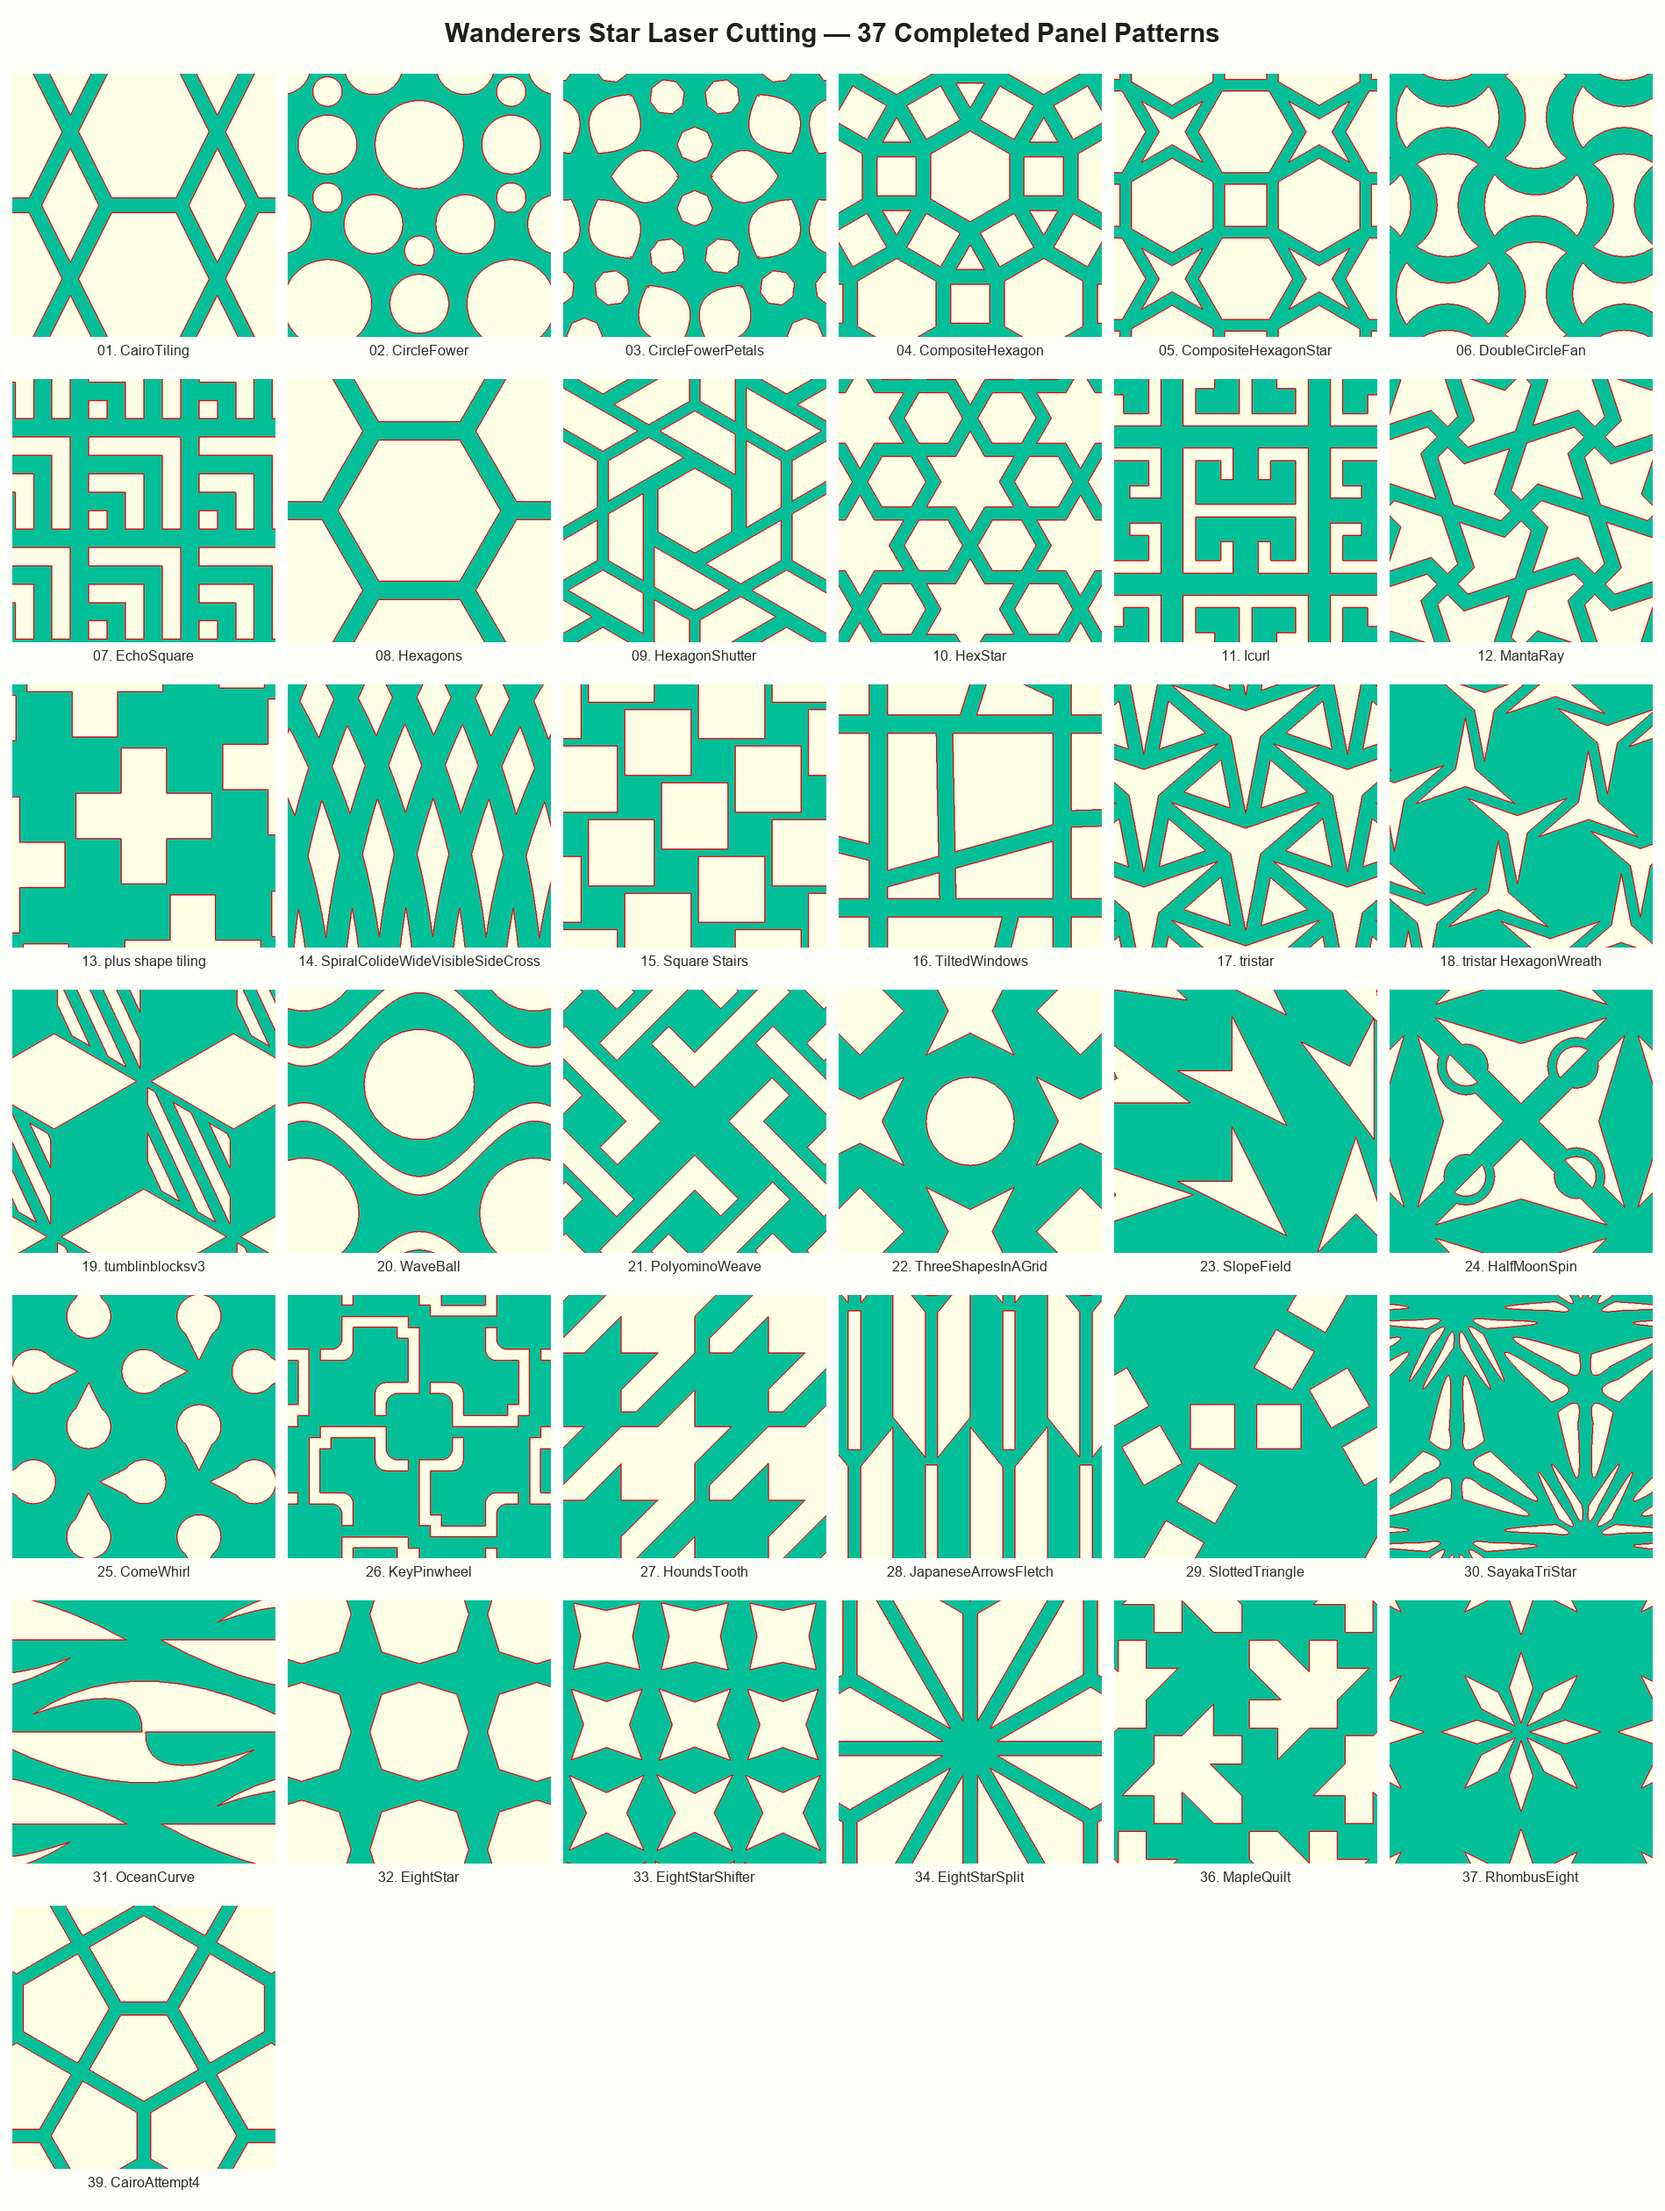
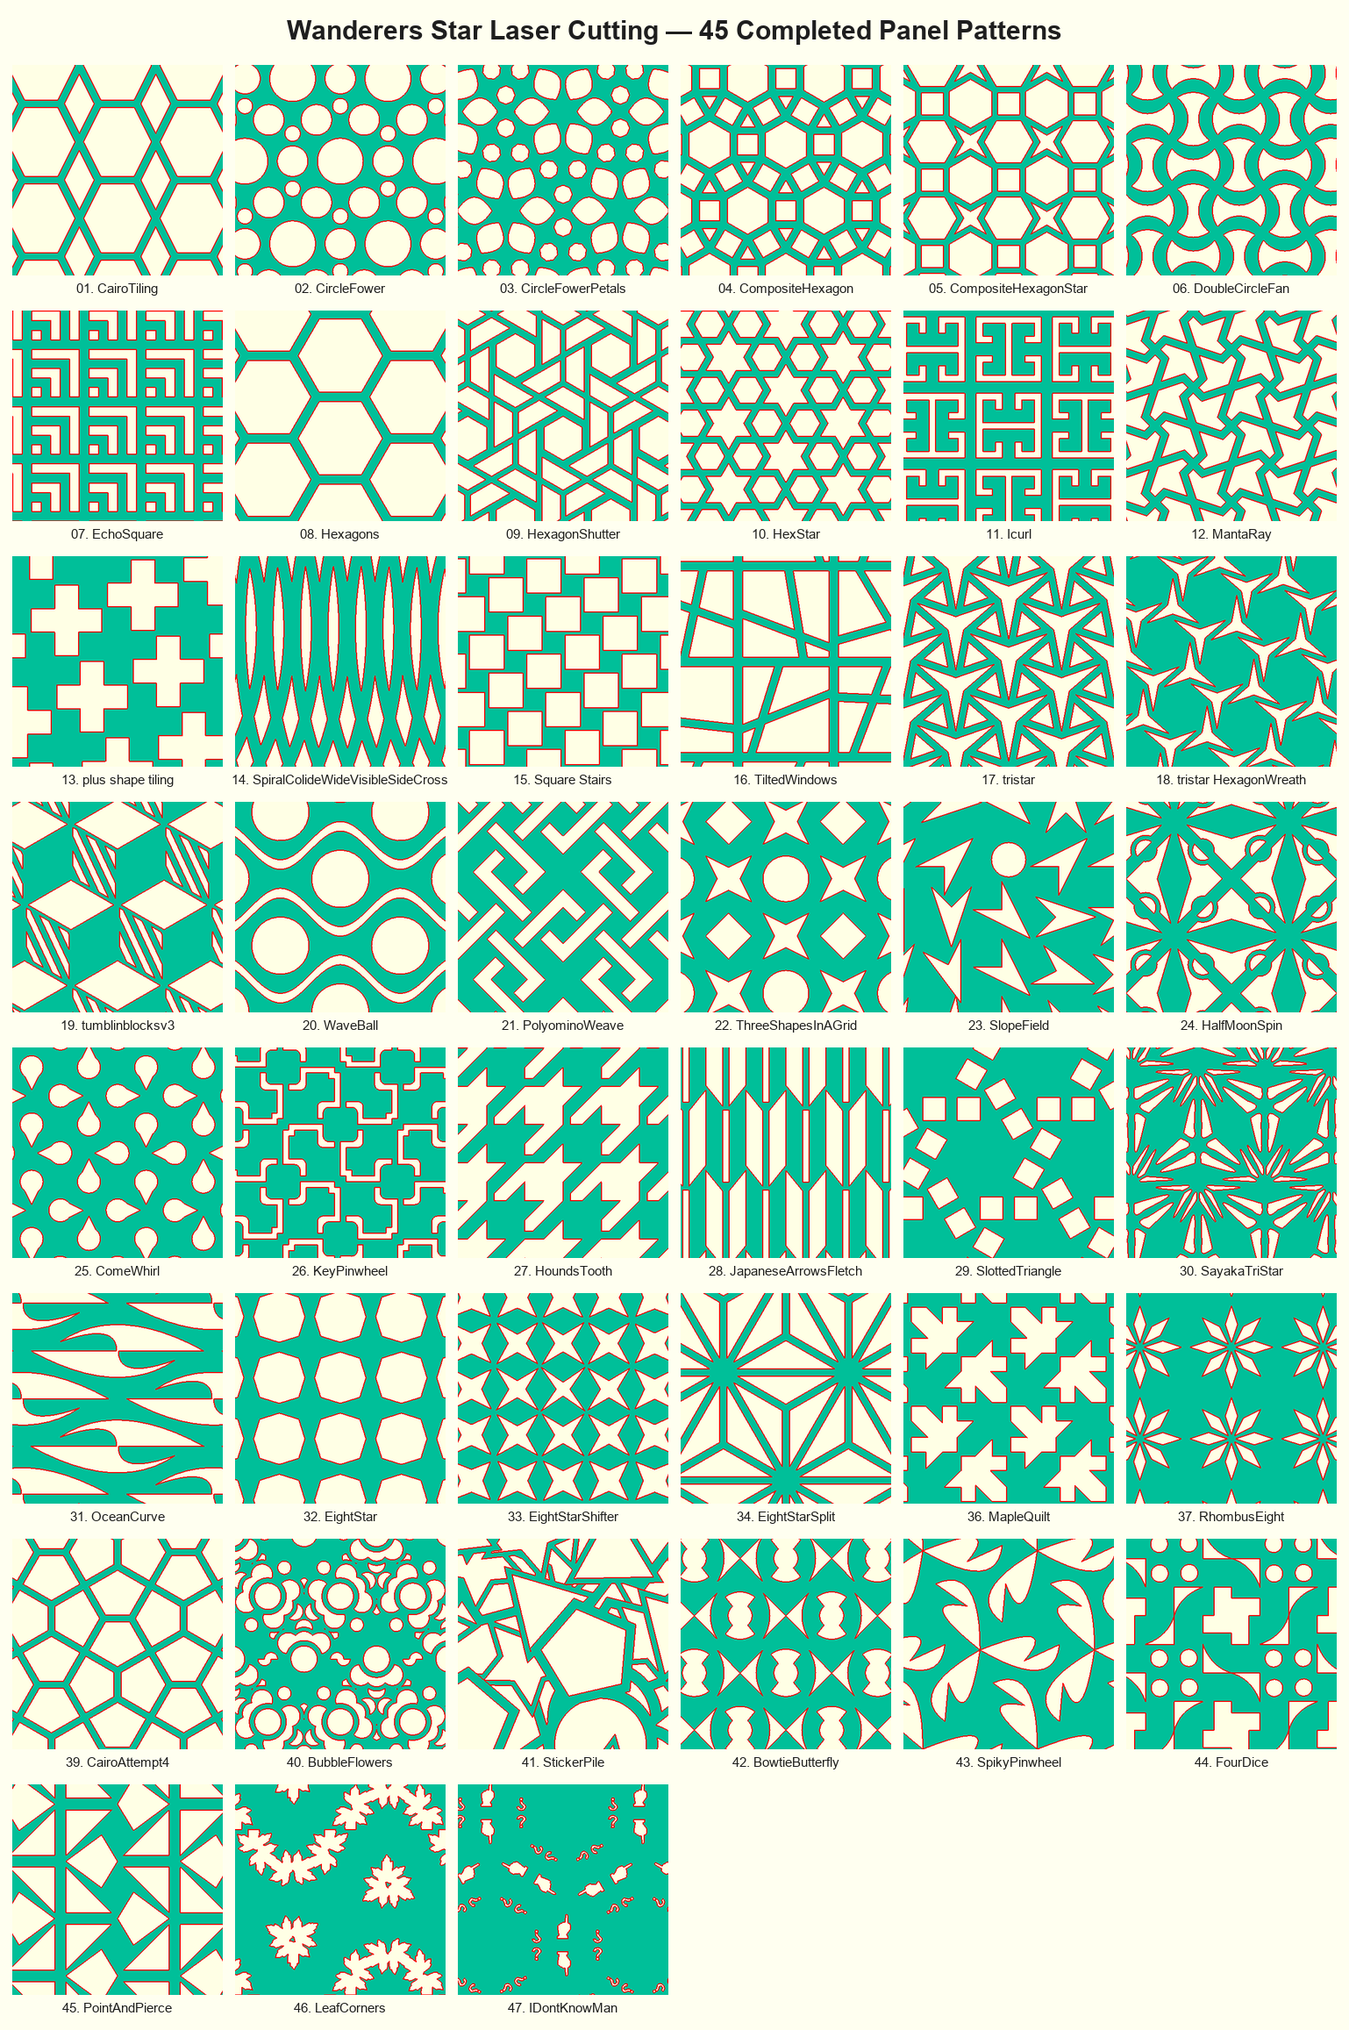
Regenerate overview.png with all 45 completed panels (Complete_01..47)
Adds Complete_40 BubbleFlowers, 41 StickerPile, 42 BowtieButterfly,
43 SpikyPinwheel, 44 FourDice, 45 PointAndPierce, 46 LeafCorners,
47 IDontKnowMan to the contact sheet.

Also adds Tools/gen_overview.py, the script that builds the sheet
(renders each panel headless via OpenSCAD, crops a pattern tile from
the interior, lays them out with captions).

Claude-Session: https://claude.ai/code/session_01QuvtLSwiu9Wy1Do2RSicPm

diff --git a/Tools/gen_overview.py b/Tools/gen_overview.py
@@ -1,0 +1,84 @@
+#!/usr/bin/env python3
+"""Regenerate overview.png -- a contact sheet of cropped pattern tiles for
+every Complete_NN panel in the repo."""
+import os, re, subprocess, sys, glob
+from PIL import Image, ImageDraw, ImageFont
+
+REPO = os.path.dirname(os.path.dirname(os.path.abspath(__file__)))
+OSCAD = os.environ.get("OPENSCAD", r"C:\Program Files (x86)\OpenSCAD\openscad.exe")
+RENDER_DIR = os.path.join(os.environ.get("TEMP", "/tmp"), "ws_ov_renders")
+os.makedirs(RENDER_DIR, exist_ok=True)
+
+IMGW, IMGH = 1200, 1500
+CAMERA = "0,115,0,0,0,0,520"
+CROP = (400, 930, 800, 1330)          # left, top, right, bottom -- inside the pattern
+TILE = 240                             # final tile size in the sheet
+COLS = 6
+PAD = 14
+CAPTION_H = 26
+TITLE_H = 60
+BG = (255, 255, 240)
+FG = (30, 30, 30)
+
+GROUPS = ["p1","p2","pm","pg","cm","pmm","pmg","pgg","cmm",
+          "p3","p3m1","p31m","p4","p4m","p4g","p6m","p6"]
+
+def caption(fname):
+    m = re.match(r"Complete_(\d+)_(.+)\.scad$", fname)
+    num, rest = m.group(1), m.group(2)
+    for g in GROUPS:
+        if rest.lower().startswith(g + "_"):
+            rest = rest[len(g) + 1:]
+            break
+    rest = rest.replace("_", " ").strip()
+    return f"{num}. {rest}"
+
+def font(sz, bold=False):
+    for name in ((["arialbd.ttf","seguisb.ttf"] if bold else ["arial.ttf","segoeui.ttf"])):
+        try:
+            return ImageFont.truetype(name, sz)
+        except OSError:
+            pass
+    return ImageFont.load_default()
+
+files = sorted(glob.glob(os.path.join(REPO, "Complete", "Complete_*.scad")),
+               key=lambda p: int(re.match(r"Complete_(\d+)", os.path.basename(p)).group(1)))
+
+tiles = []
+for path in files:
+    fname = os.path.basename(path)
+    png = os.path.join(RENDER_DIR, fname.replace(".scad", ".png"))
+    if not os.path.exists(png) or "--force" in sys.argv:
+        print("render", fname, flush=True)
+        r = subprocess.run([OSCAD, "-o", png, f"--imgsize={IMGW},{IMGH}",
+                            "--render", "--projection=o", f"--camera={CAMERA}", path],
+                           capture_output=True, text=True)
+        if r.returncode != 0:
+            print(r.stderr[-800:]); sys.exit(1)
+    im = Image.open(png).convert("RGB").crop(CROP).resize((TILE, TILE), Image.LANCZOS)
+    tiles.append((im, caption(fname)))
+
+rows = (len(tiles) + COLS - 1) // COLS
+cellw = TILE + PAD
+cellh = TILE + CAPTION_H + PAD
+sheetw = COLS * cellw + PAD
+sheeth = TITLE_H + rows * cellh + PAD
+sheet = Image.new("RGB", (sheetw, sheeth), BG)
+d = ImageDraw.Draw(sheet)
+
+title = f"Wanderers Star Laser Cutting \u2014 {len(tiles)} Completed Panel Patterns"
+tf = font(30, bold=True)
+d.text((sheetw // 2, TITLE_H // 2 + 4), title, font=tf, fill=FG, anchor="mm")
+
+cf = font(15)
+for i, (im, cap) in enumerate(tiles):
+    r, c = divmod(i, COLS)
+    x = PAD + c * cellw
+    y = TITLE_H + PAD + r * cellh
+    sheet.paste(im, (x, y))
+    d.text((x + TILE // 2, y + TILE + CAPTION_H // 2 + 2), cap,
+           font=cf, fill=FG, anchor="mm")
+
+out = os.path.join(REPO, "overview.png")
+sheet.save(out)
+print("wrote", out, sheet.size)
